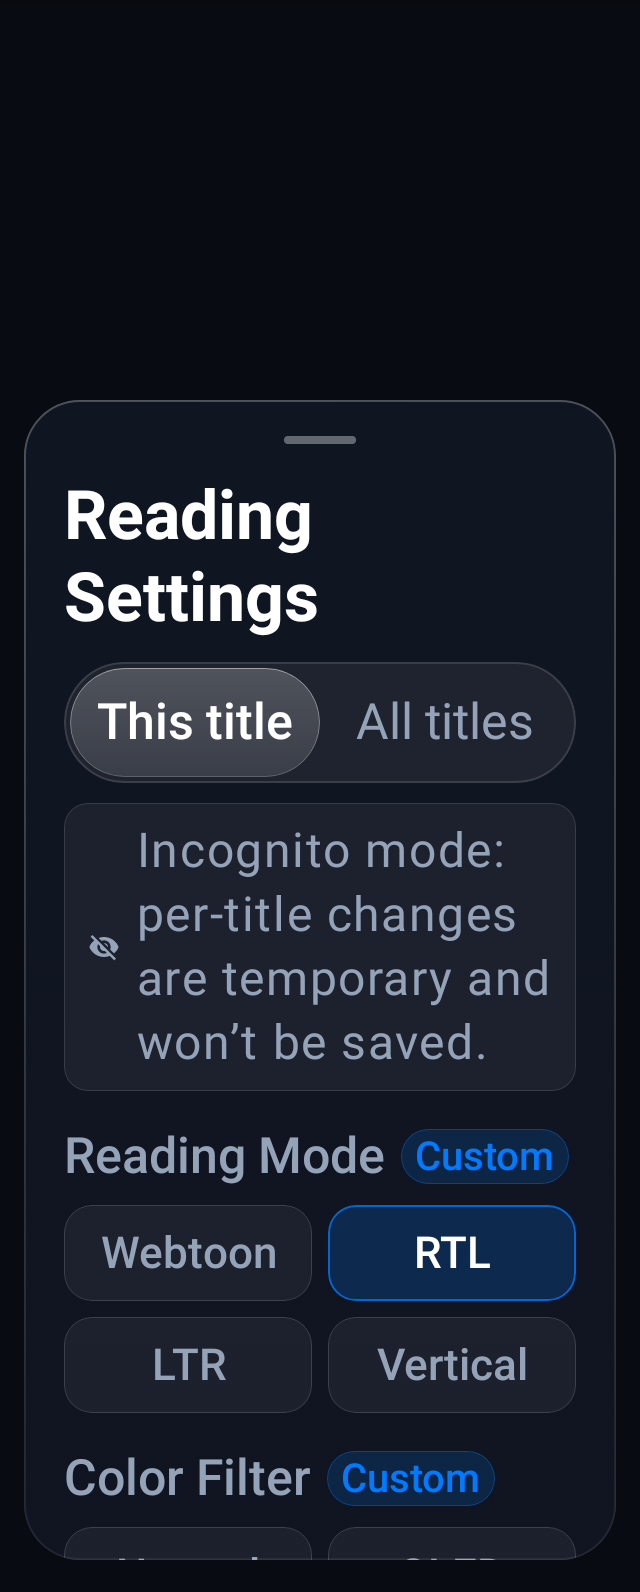
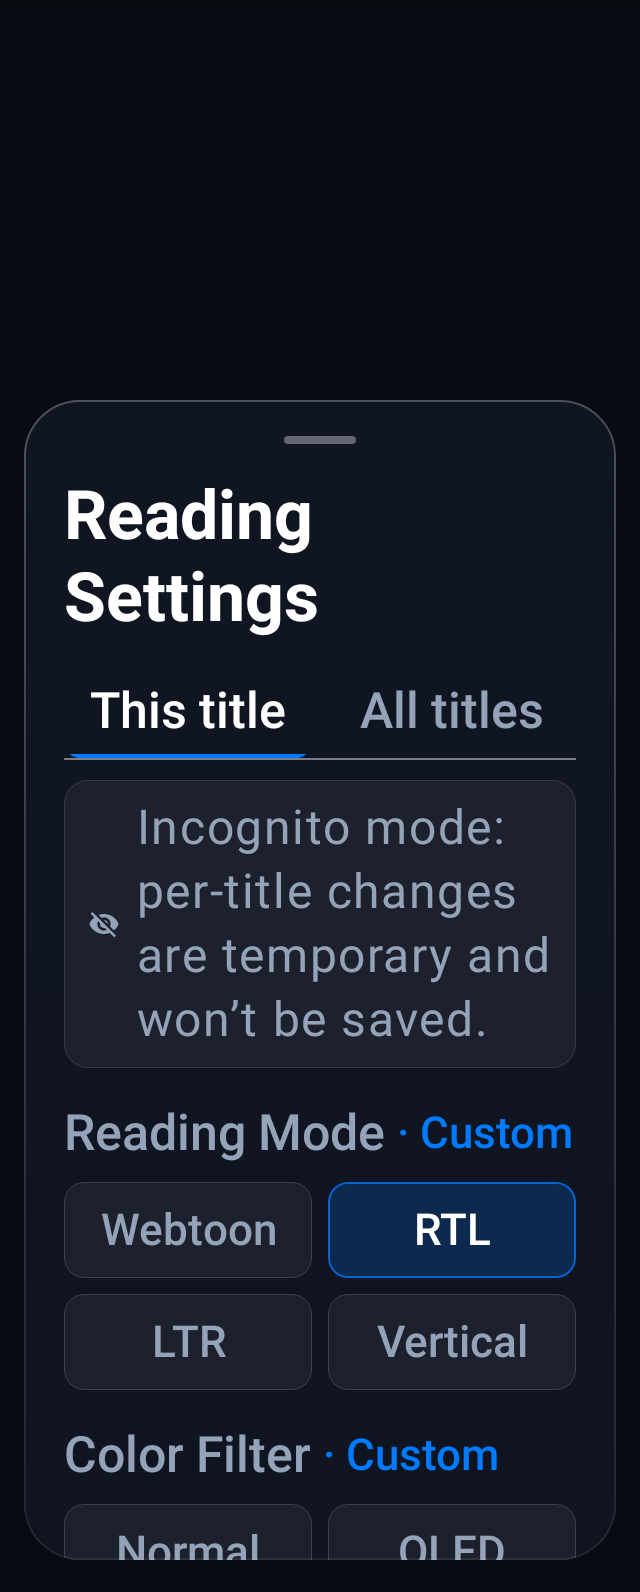
fix(ui): replace pill scope toggle and Custom badges with minimal underline tabs and inline text

Changed region(s): [[0.0938, 0.4001, 0.9062, 0.9849], [0.125, 0.554, 0.1875, 0.6156], [0.875, 0.4309, 0.9062, 0.4617]]

diff --git a/UI UX/composeApp/src/commonMain/kotlin/ui/components/ReaderSettingsComponents.kt b/UI UX/composeApp/src/commonMain/kotlin/ui/components/ReaderSettingsComponents.kt
@@ -115,18 +115,66 @@ fun ReaderScopeToggle(
     val thisTitleLabel = stringResource(Res.string.reader_scope_this_title)
     val allTitlesLabel = stringResource(Res.string.reader_scope_all_titles)
 
-    AdaptiveReaderOptionSelector(
-        items = scopeOptions,
-        selectedIndex = scopeOptions.indexOf(scope).coerceAtLeast(0),
-        onItemSelected = { onScopeSelected(scopeOptions[it]) },
-        labelProvider = { item ->
-            when (item) {
-                ReaderSettingsScope.THIS_TITLE -> thisTitleLabel
-                ReaderSettingsScope.ALL_TITLES -> allTitlesLabel
+    Column(modifier = modifier.fillMaxWidth()) {
+        Row(
+            modifier = Modifier.fillMaxWidth(),
+            horizontalArrangement = Arrangement.spacedBy(8.dp)
+        ) {
+            scopeOptions.forEach { item ->
+                val isSelected = item == scope
+                val label = when (item) {
+                    ReaderSettingsScope.THIS_TITLE -> thisTitleLabel
+                    ReaderSettingsScope.ALL_TITLES -> allTitlesLabel
+                }
+                Column(
+                    modifier = Modifier
+                        .weight(1f)
+                        .heightIn(min = 48.dp)
+                        .clip(RoundedCornerShape(8.dp))
+                        .clickable(role = Role.Tab) { onScopeSelected(item) }
+                        .semantics { selected = isSelected },
+                    horizontalAlignment = Alignment.CenterHorizontally,
+                    verticalArrangement = Arrangement.SpaceBetween
+                ) {
+                    Box(
+                        modifier = Modifier
+                            .fillMaxWidth()
+                            .weight(1f, fill = false)
+                            .heightIn(min = 45.dp)
+                            .padding(horizontal = 8.dp, vertical = 10.dp),
+                        contentAlignment = Alignment.Center
+                    ) {
+                        Text(
+                            text = label,
+                            color = if (isSelected) {
+                                MaterialTheme.colorScheme.onSurface
+                            } else {
+                                MaterialTheme.colorScheme.onSurfaceVariant
+                            },
+                            style = MaterialTheme.typography.labelLarge,
+                            fontWeight = if (isSelected) FontWeight.SemiBold else FontWeight.Medium,
+                            textAlign = TextAlign.Center
+                        )
+                    }
+                    Box(
+                        modifier = Modifier
+                            .fillMaxWidth()
+                            .height(2.dp)
+                            .background(
+                                if (isSelected) MaterialTheme.colorScheme.primary
+                                else Color.Transparent
+                            )
+                    )
+                }
             }
-        },
-        modifier = modifier
-    )
+        }
+        Box(
+            modifier = Modifier
+                .fillMaxWidth()
+                .height(1.dp)
+                .background(MaterialTheme.colorScheme.outlineVariant.copy(alpha = 0.45f))
+        )
+    }
 }
 
 /**
@@ -232,12 +280,12 @@ fun <T> AdaptiveReaderOptionSelector(
                             modifier = Modifier
                                 .weight(1f)
                                 .heightIn(min = 48.dp)
-                                .clip(RoundedCornerShape(14.dp))
+                                .clip(RoundedCornerShape(10.dp))
                                 .background(pillBackground)
                                 .border(
                                     width = if (isSelected) 1.dp else 0.5.dp,
                                     color = pillBorderColor,
-                                    shape = RoundedCornerShape(14.dp)
+                                    shape = RoundedCornerShape(10.dp)
                                 )
                                 .clickable(role = Role.RadioButton) { onItemSelected(index) }
                                 .semantics { selected = isSelected }
@@ -286,43 +334,14 @@ fun SettingLabelWithCustomBadge(
             fontWeight = FontWeight.Medium
         )
         if (isCustom) {
-            Spacer(modifier = Modifier.width(8.dp))
-            val isLightSurface = MaterialTheme.colorScheme.surface.luminance() > 0.5f
-            val badgeBg = if (isLightSurface) {
-                MaterialTheme.colorScheme.primaryContainer
-            } else {
-                MaterialTheme.colorScheme.primary.copy(alpha = 0.16f)
-            }
-            val badgeText = if (isLightSurface) {
-                MaterialTheme.colorScheme.onPrimaryContainer
-            } else {
-                MaterialTheme.colorScheme.primary
-            }
-            Box(
-                modifier = Modifier
-                    .clip(CapsuleShape)
-                    .background(badgeBg)
-                    .then(
-                        if (!isLightSurface) {
-                            Modifier.border(
-                                width = 0.5.dp,
-                                color = MaterialTheme.colorScheme.primary.copy(alpha = 0.35f),
-                                shape = CapsuleShape
-                            )
-                        } else {
-                            Modifier
-                        }
-                    )
-                    .padding(horizontal = 7.dp, vertical = 2.dp)
-            ) {
-                Text(
-                    text = customLabel,
-                    color = badgeText,
-                    style = MaterialTheme.typography.labelSmall,
-                    fontSize = 10.sp,
-                    fontWeight = FontWeight.SemiBold
-                )
-            }
+            Spacer(modifier = Modifier.width(6.dp))
+            Text(
+                text = "· $customLabel",
+                color = MaterialTheme.colorScheme.primary,
+                style = MaterialTheme.typography.labelSmall,
+                fontSize = 11.sp,
+                fontWeight = FontWeight.SemiBold
+            )
         }
     }
 }
